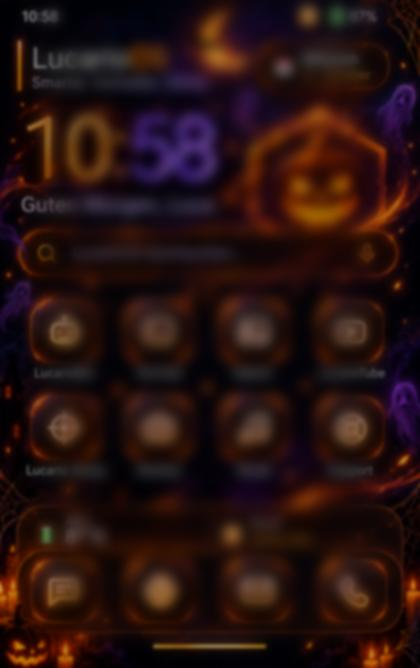
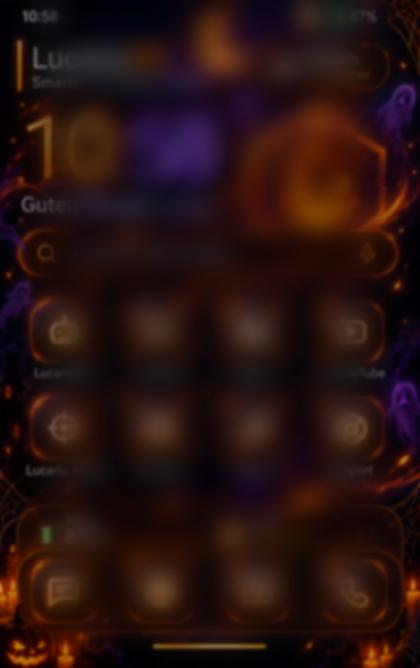
Skin-Effekte einstellbar, Skin-Look wie im Bild, Originalbild-Schärfe
Claude-Session: https://claude.ai/code/session_01QPs3d166SmVoQPqWLWZDzX

diff --git a/index.html b/index.html
@@ -546,11 +546,11 @@ select.f{appearance:auto}
 #phone.sk-hw.lo.cico .app .ic{background:radial-gradient(circle at 30% 20%,rgba(166,77,255,.4),rgba(18,6,30,.9) 70%)!important;border-color:rgba(255,138,31,.6)!important;animation:skhw 2.6s ease-in-out infinite alternate}
 #phone.sk-hw.lo.cico .app .ic svg{stroke:#ffae4d!important;filter:drop-shadow(0 0 5px #ff8a1f)!important}
 #phone.sk-hw.lo.cico .app:nth-child(2n) .ic svg{stroke:#c996ff!important;filter:drop-shadow(0 0 5px #a64dff)!important}
-@keyframes skhw{from{box-shadow:0 0 8px rgba(255,138,31,.5),inset 0 0 10px rgba(166,77,255,.3)}to{box-shadow:0 0 20px rgba(166,77,255,.8),inset 0 0 14px rgba(255,138,31,.4)}}
+@keyframes skhw{from{box-shadow:0 0 calc(8px*var(--skg,1)) rgba(255,138,31,.5),inset 0 0 calc(10px*var(--skg,1)) rgba(166,77,255,.3)}to{box-shadow:0 0 calc(20px*var(--skg,1)) rgba(166,77,255,.8),inset 0 0 calc(14px*var(--skg,1)) rgba(255,138,31,.4)}}
 #phone.sk-sv.lo.cico .app .ic{background:radial-gradient(circle at 30% 20%,rgba(255,200,61,.3),rgba(6,10,40,.92) 70%)!important;border-color:rgba(255,200,61,.65)!important;animation:sksv 3s ease-in-out infinite alternate}
 #phone.sk-sv.lo.cico .app .ic svg{stroke:#ffd36b!important;filter:drop-shadow(0 0 5px #ffb21f)!important}
 #phone.sk-sv.lo.cico .app:nth-child(3n) .ic svg{stroke:#8ec5ff!important;filter:drop-shadow(0 0 5px #4c8dff)!important}
-@keyframes sksv{from{box-shadow:0 0 8px rgba(255,200,61,.5),inset 0 0 10px rgba(76,141,255,.25)}to{box-shadow:0 0 20px rgba(255,200,61,.85),inset 0 0 14px rgba(255,255,255,.2)}}
+@keyframes sksv{from{box-shadow:0 0 calc(8px*var(--skg,1)) rgba(255,200,61,.5),inset 0 0 calc(10px*var(--skg,1)) rgba(76,141,255,.25)}to{box-shadow:0 0 calc(20px*var(--skg,1)) rgba(255,200,61,.85),inset 0 0 calc(14px*var(--skg,1)) rgba(255,255,255,.2)}}
 #phone.sk-hw .lodate,#phone.sk-hw #search,#phone.sk-hw .lowd{border-color:rgba(255,138,31,.55)!important}
 #phone.sk-sv .lodate,#phone.sk-sv #search,#phone.sk-sv .lowd{border-color:rgba(255,200,61,.55)!important}
 .skc2{display:flex;align-items:center;gap:12px;padding:14px;border-radius:18px;margin-bottom:10px;color:#fff;border:2px solid transparent;cursor:pointer}.skc2.on{border-color:#ffd93d;box-shadow:0 0 18px #ffd93d66}.skem{font-size:34px}.skc2 div{flex:1}.skc2 b{display:block;font-size:16px}.skc2 small{opacity:.85;font-size:12px}.skc2 i{font-style:normal;font-weight:800;font-size:12px;background:#0006;padding:6px 10px;border-radius:12px}
@@ -558,7 +558,7 @@ select.f{appearance:auto}
 #phone.sk-xm.lo.cico .app .ic{background:radial-gradient(circle at 30% 20%,rgba(255,59,59,.32),rgba(12,6,20,.92) 70%)!important;border-color:rgba(255,90,90,.65)!important;animation:skxm 2.8s ease-in-out infinite alternate}
 #phone.sk-xm.lo.cico .app .ic svg{stroke:#ffe9e9!important;filter:drop-shadow(0 0 5px #ff3b3b)!important}
 #phone.sk-xm.lo.cico .app:nth-child(3n) .ic svg{stroke:#9dffb8!important;filter:drop-shadow(0 0 5px #2ecc71)!important}
-@keyframes skxm{from{box-shadow:0 0 8px rgba(255,59,59,.5),inset 0 0 10px rgba(46,204,113,.2)}to{box-shadow:0 0 20px rgba(255,59,59,.85),inset 0 0 14px rgba(255,255,255,.18)}}
+@keyframes skxm{from{box-shadow:0 0 calc(8px*var(--skg,1)) rgba(255,59,59,.5),inset 0 0 calc(10px*var(--skg,1)) rgba(46,204,113,.2)}to{box-shadow:0 0 calc(20px*var(--skg,1)) rgba(255,59,59,.85),inset 0 0 calc(14px*var(--skg,1)) rgba(255,255,255,.18)}}
 #phone.sk-xm .lodate,#phone.sk-xm #search,#phone.sk-xm .lowd{border-color:rgba(255,90,90,.55)!important}
 .skgx{position:absolute;inset:0;pointer-events:none;overflow:hidden;z-index:5}
 .skgx span{position:absolute;top:-8%;opacity:.5;animation:skfall linear infinite}
@@ -573,6 +573,25 @@ select.f{appearance:auto}
 #phone.sk-sv.sk-game #body canvas{background:#080c3a!important;border:2px solid #ffc83d;box-shadow:0 0 18px rgba(255,200,61,.5)}
 #phone.sk-xm.sk-game #body canvas{background:#0a1838!important;border:2px solid #ff4d4d;box-shadow:0 0 18px rgba(255,77,77,.5)}
 #phone.sk-hw.sk-game #title{color:#ffae4d}#phone.sk-sv.sk-game #title{color:#ffd36b}#phone.sk-xm.sk-game #title{color:#ff8a8a}
+
+.skfx{margin-top:12px;padding:12px;border-radius:16px;background:#0006;color:#fff;font-size:13px}.skfx b{display:block;margin-bottom:8px;font-size:14px}
+.skfx label{display:block;margin:8px 0}.skfx em{float:right;font-style:normal;opacity:.8}.skfx input[type=range]{width:100%;accent-color:#ff8a1f}
+.skfx .skt{display:flex;align-items:center;gap:8px;margin:10px 0}.skfx .skt input{width:20px;height:20px}
+.skrs{margin-top:8px;padding:8px 14px;border-radius:12px;border:0;background:#ffffff22;color:#fff;font-weight:700}
+/* Skin-Look wie im Bild */
+#phone.sk-look.sk-hw #clock .t{color:#ffa31f;text-shadow:0 0 18px rgba(255,138,31,.7)}#phone.sk-look.sk-hw #clock .cy{color:#a56bff;text-shadow:0 0 18px rgba(140,80,255,.8)}
+#phone.sk-look.sk-sv #clock .t{color:#e6eeff;text-shadow:0 0 16px rgba(120,160,255,.6)}#phone.sk-look.sk-sv #clock .cy{text-shadow:0 0 18px rgba(255,200,61,.8)}
+#phone.sk-look.sk-xm #clock .t{color:#fff;text-shadow:0 0 14px rgba(255,255,255,.5)}#phone.sk-look.sk-xm #clock .cy{text-shadow:0 0 18px rgba(255,59,59,.9)}
+#phone.sk-look.sk-hw .lologo svg path{opacity:0}
+#phone.sk-look.sk-hw .lologo::after{content:'🎃';position:absolute;left:50%;top:50%;transform:translate(-50%,-52%);font-size:64px;filter:drop-shadow(0 0 14px #ff8a1f);animation:skbob 2.4s ease-in-out infinite alternate}
+#phone.sk-look.sk-sv .lologo::before{content:'👑';position:absolute;left:50%;top:-4px;transform:translateX(-50%);font-size:26px}
+#phone.sk-look.sk-xm .lologo::before{content:'';position:absolute;left:14%;right:14%;top:8%;height:12px;border-radius:8px;background:linear-gradient(#fff,#cfe3ff);box-shadow:0 0 10px #fff9}
+#phone.sk-look.sk-xm.lo.cico .app .ic,#phone.sk-look.sk-hw.lo.cico .app .ic,#phone.sk-look.sk-sv.lo.cico .app .ic{position:relative;overflow:visible}
+#phone.sk-look.sk-xm.lo.cico .app .ic::before{content:'';position:absolute;left:8%;right:8%;top:1px;height:7px;border-radius:8px;background:linear-gradient(#fff,#dbe9ff);box-shadow:0 0 6px #fff8;z-index:2}
+#phone.sk-look.sk-xm.lo.cico .app:nth-child(3n+1) .ic::after{content:'';position:absolute;right:-3px;top:-11px;width:22px;height:20px;background:radial-gradient(circle at 85% 88%,#fff 0 3.5px,transparent 4px),linear-gradient(#e0262b,#b31217);clip-path:polygon(0 100%,35% 8%,70% 0,100% 100%);z-index:3;transform:rotate(14deg)}
+#phone.sk-look.sk-hw.lo.cico .app:nth-child(4n+2) .ic::after{content:'🕸';position:absolute;right:-4px;top:-6px;font-size:15px;opacity:.85}
+#phone.sk-look.sk-sv.lo.cico .app:nth-child(4n+1) .ic::after{content:'✨';position:absolute;right:-4px;top:-8px;font-size:15px}
+#phone.sk-look.sk-xm .lodate,#phone.sk-look.sk-xm #search{box-shadow:0 -4px 0 -1px #fff9,0 0 14px rgba(255,59,59,.45)!important}
 /* ================= 6.2: Lucario Arena (grafisch) ================= */
 .ag{position:relative;width:100%;height:100%;min-height:520px;background:#0b0f1e;color:#eaf0ff;font-family:system-ui,sans-serif;overflow:hidden;user-select:none;-webkit-user-select:none;touch-action:manipulation}
 .ag *{box-sizing:border-box}
@@ -4805,7 +4824,8 @@ A.putz=el=>{
   try{ph.insertBefore(cv,$('#fxb')||$('#home'))}catch(e){ph.appendChild(cv)}
   const g=cv.getContext('2d');let W=0,H=0,bg=null,raf=0,last=0,skin='',T=0;
   const R=(a,b)=>a+Math.random()*(b-a),perf=()=>{const c=ph.classList;return c.contains('perf3')?3:c.contains('perf2')?2:c.contains('perf1')?1:0};
-  const lvl=()=>perf();
+  const DEF={dens:100,spd:100,glow:100,sharp:0,dim:100,games:1,gdens:100,anim:1,look:1,force:0},K=()=>Object.assign({},DEF,SET.skfx||{});let DN=1,drawn=false;
+  const lvl=()=>K().force?0:perf();
   /* ---------- Zustand je Skin ---------- */
   let flares=[],fog,bats,ghosts,embers,pumps,rockets,sparks,conf,wins,ripples,shineT;
   const SC=.8;
@@ -4843,9 +4863,9 @@ A.putz=el=>{
     g.drawImage(bg,0,0);
     fog.forEach(f=>{f.x+=f.v*dt*30;if(f.x>W+f.r)f.x=-f.r;if(f.x<-f.r)f.x=W+f.r;const gr=g.createRadialGradient(f.x,f.y,0,f.x,f.y,f.r);gr.addColorStop(0,'rgba(150,90,210,'+f.a+')');gr.addColorStop(1,'rgba(150,90,210,0)');g.fillStyle=gr;g.fillRect(f.x-f.r,f.y-f.r,f.r*2,f.r*2)});
     pumps.forEach(p=>pumpkin(p,t));
-    if(Math.random()<dt*.5&&bats.length<(lvl()?2:4))bats.push({x:Math.random()<.5?-30:W+30,y:R(H*.08,H*.5),vx:0,s:W*R(.07,.12),p:R(0,6),d:1,sp:R(70,130)});
+    if(Math.random()<dt*DN*.5&&bats.length<(lvl()?2:4))bats.push({x:Math.random()<.5?-30:W+30,y:R(H*.08,H*.5),vx:0,s:W*R(.07,.12),p:R(0,6),d:1,sp:R(70,130)});
     bats.forEach(b=>{if(!b.vx){b.vx=b.x<0?b.sp:-b.sp;b.d=b.vx>0?1:-1}b.x+=b.vx*dt;b.y+=Math.sin(t*3+b.p)*30*dt;bat(b,t)});bats=bats.filter(b=>b.x>-60&&b.x<W+60);
-    if(!lvl()){if(Math.random()<dt*.28&&ghosts.length<3)ghosts.push({x:R(W*.1,W*.9),y:R(H*.2,H*.6),s:W*R(.07,.11),p:R(0,6),l:0,max:R(5,8),vx:R(-12,12)});ghosts.forEach(o=>{o.l+=dt;o.x+=o.vx*dt;ghost(o,t)});ghosts=ghosts.filter(o=>o.l<o.max)}
+    if(!lvl()){if(Math.random()<dt*DN*.28&&ghosts.length<3)ghosts.push({x:R(W*.1,W*.9),y:R(H*.2,H*.6),s:W*R(.07,.11),p:R(0,6),l:0,max:R(5,8),vx:R(-12,12)});ghosts.forEach(o=>{o.l+=dt;o.x+=o.vx*dt;ghost(o,t)});ghosts=ghosts.filter(o=>o.l<o.max)}
     embers.forEach(e=>{e.y-=e.v*dt*40;e.x+=Math.sin(t*2+e.p)*.3;if(e.y<-5){e.y=H+5;e.x=R(0,W)}g.fillStyle='rgba(255,'+(120+Math.sin(t*5+e.p)*60|0)+',30,'+(.35+.35*Math.sin(t*4+e.p))+')';g.fillRect(e.x,e.y,e.s,e.s)})}
   /* ---------- SILVESTER ---------- */
   function svBg(x){
@@ -4862,7 +4882,7 @@ A.putz=el=>{
     g.drawImage(bg,0,0);
     wins.forEach(w=>{const a=.25+.6*Math.max(0,Math.sin(t*w.f+w.p));if(a>.4){g.fillStyle='rgba(255,214,120,'+a+')';g.fillRect(w.x,w.y,3,4)}});
     const tw=g.createLinearGradient(0,H*.8,0,H);tw.addColorStop(0,'rgba(255,200,90,.14)');tw.addColorStop(1,'rgba(255,200,90,0)');g.fillStyle=tw;for(let i=0;i<7;i++){g.fillRect(((i*97+t*14*(i%2?1:-1))%W+W)%W,H*.8+i*H*.025,W*.22,2)}
-    if(Math.random()<dt*(lvl()?.7:1.4)&&rockets.length<3)rockets.push({x:R(W*.12,W*.88),y:H*.8,ty:R(H*.12,H*.42),vy:-R(4,6)});
+    if(Math.random()<dt*DN*(lvl()?.7:1.4)&&rockets.length<3)rockets.push({x:R(W*.12,W*.88),y:H*.8,ty:R(H*.12,H*.42),vy:-R(4,6)});
     rockets.forEach(r=>{r.y+=r.vy;g.fillStyle='rgba(255,230,160,.9)';g.fillRect(r.x,r.y,2,6);g.fillStyle='rgba(255,200,100,.35)';g.fillRect(r.x,r.y+6,2,14);if(r.y<=r.ty){r.dead=1;boom(r.x,r.y)}});rockets=rockets.filter(r=>!r.dead);
     g.globalCompositeOperation='lighter';
     sparks.forEach(s=>{s.vy+=.06;s.vx*=.982;s.vy*=.982;const px=s.x,py=s.y;s.x+=s.vx;s.y+=s.vy;s.l-=s.d;g.strokeStyle=s.c;g.globalAlpha=Math.max(0,s.l);g.lineWidth=2.6;g.beginPath();g.moveTo(px-s.vx*1.5,py-s.vy*1.5);g.lineTo(s.x,s.y);g.stroke();g.fillStyle='#fff';g.fillRect(s.x-1,s.y-1,2,2)});g.globalAlpha=1;
@@ -4872,8 +4892,9 @@ A.putz=el=>{
     conf.forEach(c=>{c.y+=c.v*dt*55;c.x+=Math.sin(t*1.5+c.p)*.6;c.r+=.08;if(c.y>H+8){c.y=-8;c.x=R(0,W)}g.save();g.translate(c.x,c.y);g.rotate(c.r);g.globalAlpha=.55+.4*Math.abs(Math.sin(c.r*2));g.fillStyle=c.c;g.fillRect(-c.s/2,-c.s/4,c.s,c.s/2);g.restore()});g.globalAlpha=1;
     shineT+=dt;const ph2=(shineT%7)/7;if(ph2<.5){const sx=-W*.3+ph2*2*(W*1.6),sg=g.createLinearGradient(sx,0,sx+W*.25,H*.4);sg.addColorStop(0,'rgba(255,255,255,0)');sg.addColorStop(.5,'rgba(255,240,200,.1)');sg.addColorStop(1,'rgba(255,255,255,0)');g.fillStyle=sg;g.fillRect(0,0,W,H)}}
   /* ---------- Steuerung ---------- */
-  const IM={};function img(k){if(!IM[k]){const i=new Image();IM[k]={i,ok:false};i.onload=()=>{IM[k].ok=true;if(skin==k)try{build()}catch(e){}};i.src='skin-'+k+'.jpg'}return IM[k]}
-  function imgBg(k,fb){const m=img(k);return mkBg(x=>{if(m.ok){const w=m.i.width,h=m.i.height,sc=Math.max(W/w,H/h);x.drawImage(m.i,(W-w*sc)/2,(H-h*sc)/2,w*sc,h*sc)}else fb(x)})}
+  const IM={};function img(k,sfx){const n=k+(sfx||'');if(!IM[n]){const i=new Image();IM[n]={i,ok:false};i.onload=()=>{IM[n].ok=true;if(skin==k)try{build();drawn=false}catch(e){}};i.src='skin-'+n+(sfx?'':'')+'.jpg'}return IM[n]}
+  function cover(x,m){const w=m.i.width,h=m.i.height,sc=Math.max(W/w,H/h);x.drawImage(m.i,(W-w*sc)/2,(H-h*sc)/2,w*sc,h*sc)}
+  function imgBg(k,fb){const m=img(k);const q=K(),ms=img(k,'-s');return mkBg(x=>{if(m.ok){cover(x,m);if(q.sharp>0&&ms.ok){x.globalAlpha=q.sharp/100;cover(x,ms);x.globalAlpha=1}if(q.dim<100){x.fillStyle='rgba(0,0,0,'+(1-q.dim/100)+')';x.fillRect(0,0,W,H)}}else fb(x)})}
   /* ---------- WEIHNACHTEN ---------- */
   function xmBg(x){const sg=x.createLinearGradient(0,0,0,H);sg.addColorStop(0,'#070b24');sg.addColorStop(.6,'#13244f');sg.addColorStop(1,'#1d2f5c');x.fillStyle=sg;x.fillRect(0,0,W,H)}
   let snow,lights,shoot;
@@ -4882,14 +4903,15 @@ A.putz=el=>{
     g.fillStyle='rgba(255,255,255,.85)';snow.forEach(f=>{f.y+=f.v*dt*45;f.x+=Math.sin(t*.8+f.p)*.4;if(f.y>H+4){f.y=-4;f.x=R(0,W)}g.globalAlpha=.45+f.s/6;g.beginPath();g.arc(f.x,f.y,f.s*SC,0,7);g.fill()});g.globalAlpha=1;
     g.strokeStyle='rgba(20,60,30,.9)';g.lineWidth=2;g.beginPath();g.moveTo(0,4);lights.forEach(l=>g.lineTo(l.x,4+Math.sin(l.x/W*Math.PI*3)*7+8));g.lineTo(W,6);g.stroke();
     lights.forEach(l=>{const y=12+Math.sin(l.x/W*Math.PI*3)*7,a=.55+.45*Math.sin(t*3+l.p);g.fillStyle=l.c;g.globalAlpha=a;g.shadowColor=l.c;g.shadowBlur=14;g.beginPath();g.arc(l.x,y,4.2,0,7);g.fill();g.shadowBlur=0});g.globalAlpha=1;
-    if(!shoot&&Math.random()<dt*.15)shoot={x:R(W*.3,W),y:R(0,H*.25),l:1};if(shoot){shoot.x-=dt*420;shoot.y+=dt*170;shoot.l-=dt*1.1;g.strokeStyle='rgba(255,255,255,'+Math.max(0,shoot.l)+')';g.lineWidth=2;g.beginPath();g.moveTo(shoot.x,shoot.y);g.lineTo(shoot.x+50,shoot.y-20);g.stroke();if(shoot.l<=0)shoot=null}}
-  function build(){if(!skin)return;if(skin=='hw'){bg=imgBg('hw',hwBg);hwInit()}else if(skin=='sv'){bg=imgBg('sv',svBg);svInit()}else{bg=imgBg('xm',xmBg);xmInit()}}
+    if(!shoot&&Math.random()<dt*DN*.15)shoot={x:R(W*.3,W),y:R(0,H*.25),l:1};if(shoot){shoot.x-=dt*420;shoot.y+=dt*170;shoot.l-=dt*1.1;g.strokeStyle='rgba(255,255,255,'+Math.max(0,shoot.l)+')';g.lineWidth=2;g.beginPath();g.moveTo(shoot.x,shoot.y);g.lineTo(shoot.x+50,shoot.y-20);g.stroke();if(shoot.l<=0)shoot=null}}
+  function scale(a,f){if(!a||f===1)return a;if(f<1){a.length=Math.floor(a.length*f)}else{const n=a.length;for(let i=0;i<Math.round(n*(f-1));i++){const c=Object.assign({},a[i%n]);c.x=R(0,W);c.y=R(0,H);a.push(c)}}return a}
+  function build(){if(!skin)return;DN=K().dens/100;if(skin=='hw'){bg=imgBg('hw',hwBg);hwInit();embers=scale(embers,DN)}else if(skin=='sv'){bg=imgBg('sv',svBg);svInit();conf=scale(conf,DN)}else{bg=imgBg('xm',xmBg);xmInit();snow=scale(snow,DN)}drawn=false}
   function frame(t){raf=requestAnimationFrame(frame);if(document.hidden||ph.classList.contains('inapp')){last=t;return}
-    const dt=Math.min(.1,(t-last)/1000),L=lvl();if(L>=2){if(T++%90)return}else if(dt<.032)return;last=t;
+    const q=K(),dt0=Math.min(.1,(t-last)/1000),L=lvl();if(!q.anim&&drawn){last=t;return}if(L>=2){if(dt0<.05)return}else if(dt0<.032)return;last=t;const dt=dt0*q.spd/100;drawn=true;
     const tt=t/1000;try{skin=='hw'?hwFrame(dt||.033,tt):skin=='xm'?xmFrame(dt||.033,tt):svFrame(dt||.033,tt)}catch(e){}}
-  function sync(){const s=(SET.skin==='hw'||SET.skin==='sv'||SET.skin==='xm')&&SET.style=='lucario'&&!SET.reduce?SET.skin:'';
+  function sync(){try{const q=K();ph.style.setProperty('--skg',q.glow/100);ph.classList.toggle('sk-look',!!q.look)}catch(_){}const s=(SET.skin==='hw'||SET.skin==='sv'||SET.skin==='xm')&&SET.style=='lucario'&&!SET.reduce?SET.skin:'';
     ph.classList.toggle('sk-hw',s=='hw');ph.classList.toggle('sk-sv',s=='sv');ph.classList.toggle('sk-xm',s=='xm');window.SKFOOD=s?SK[s].food:'';
-    if(s!==skin){skin=s;if(!s){cv.style.display='none';cancelAnimationFrame(raf);raf=0;return}cv.style.display='block';size();last=performance.now();if(!raf)raf=requestAnimationFrame(frame)}else if(s&&!raf){cv.style.display='block';raf=requestAnimationFrame(frame)}}
+    if(s!==skin){skin=s;if(s)try{build()}catch(e){}if(!s){cv.style.display='none';cancelAnimationFrame(raf);raf=0;return}cv.style.display='block';size();last=performance.now();if(!raf)raf=requestAnimationFrame(frame)}else if(s&&!raf){cv.style.display='block';raf=requestAnimationFrame(frame)}}
   /* Akzentfarbe des Skins in das LucarioOS-Design einspeisen */
   const _lt=loTheme;loTheme=function(){const s=SK[SET.skin];if(s&&SET.style=='lucario'){const o=SET.accent;SET.accent=s.acc;try{return _lt.apply(this,arguments)}finally{SET.accent=o}}return _lt.apply(this,arguments)};
   const _as=applySet;applySet=function(){const r=_as.apply(this,arguments);try{sync()}catch(e){}return r};
@@ -4900,13 +4922,16 @@ A.putz=el=>{
   /* ---------- Spiele-Theme: Deko-Ebene in jeder App ---------- */
   const GM=['snake','g2048','memory','pong','flappy','simon','whack','tetris','breakout','fabrik','fussknabber','putz','arena','ttt','gamecenter','sudoku','minesweeper','slide','wordle','game'];
   function deco(id){const w=$('#win');if(!w)return;let d=$('#skgx');if(d)d.remove();const s=SET.skin,k=SK[s];if(!k||SET.style!='lucario'||SET.reduce)return;
-    d=document.createElement('div');d.id='skgx';d.className='skgx';const n=lvl()?6:12;let h='';
+    d=document.createElement('div');d.id='skgx';d.className='skgx';const q=K();if(!q.games)return;const n=Math.round((lvl()?6:12)*q.gdens/100);let h='';
     for(let i=0;i<n;i++)h+='<span style="left:'+((i*83+11)%96)+'%;animation-duration:'+(9+(i*7)%9)+'s;animation-delay:-'+((i*5)%14)+'s;font-size:'+(16+(i*5)%16)+'px">'+k.deco[i%k.deco.length]+'</span>';
     h+='<b class="c1">'+k.deco[0]+'</b><b class="c2">'+k.deco[1]+'</b><b class="c3">'+k.deco[2]+'</b><b class="c4">'+k.deco[3]+'</b>';d.innerHTML=h;w.appendChild(d)}
   const _oa2=openApp;openApp=function(id){const r=_oa2.apply(this,arguments);try{ph.classList.toggle('sk-game',GM.includes(id));deco(id)}catch(e){}return r};
   const _ca2=closeApp;closeApp=function(){try{const d=$('#skgx');if(d)d.remove();ph.classList.remove('sk-game')}catch(e){}return _ca2.apply(this,arguments)};
   /* App „Skins“ */
   apps.push({id:'skins',name:'Skins',bg:G('#ff8a1f','#7b2ff7'),svg:ic('<path d="M12 3l2.5 5 5.5.8-4 3.9.9 5.5L12 15.6 7.1 18.2 8 12.7 4 8.8 9.5 8z"/>')});
+  const SL=[['dens','Partikel-Menge','0','200','%'],['spd','Animations-Tempo','20','250','%'],['glow','Leuchten der Icons','0','200','%'],['sharp','Bildschärfe (Original)','0','100','%'],['dim','Helligkeit Hintergrund','30','100','%'],['gdens','Deko in Spielen','0','200','%']],TG=[['anim','Animationen laufen'],['look','Skin-Look (Uhr, Logo, Mützen)'],['games','Deko in Spielen'],['force','Volle Effekte (Leistungsmodus ignorieren)']];
+  function fxUI(){const q=K();return '<div class="skfx"><b>⚙ Effekte einstellen</b>'+SL.map(a=>'<label>'+a[1]+' <em id="v_'+a[0]+'">'+q[a[0]]+a[4]+'</em><input type="range" data-s="'+a[0]+'" min="'+a[2]+'" max="'+a[3]+'" value="'+q[a[0]]+'"></label>').join('')+TG.map(a=>'<label class="skt"><input type="checkbox" data-t="'+a[0]+'"'+(q[a[0]]?' checked':'')+'> '+a[1]+'</label>').join('')+'<button class="skrs" id="skrs">Zurücksetzen</button></div>'}
+  function fxSet(k,v,rb){SET.skfx=Object.assign({},SET.skfx||{});SET.skfx[k]=v;saveSet();sync();if(rb&&skin)build()}
   A.skins=el=>{
     const draw=()=>{el.style.alignItems='stretch';el.style.padding='12px';
       const card=(k,n,em,desc,css)=>'<div class="skc2'+(SET.skin==k?' on':'')+'" data-k="'+k+'" style="background:'+css+'"><span class="skem">'+em+'</span><div><b>'+n+'</b><small>'+desc+'</small></div><i>'+(SET.skin==k?'Aktiv ✓':'Aktivieren')+'</i></div>';
@@ -4915,8 +4940,11 @@ A.putz=el=>{
         +card('hw','Halloween','🎃',SK.hw.desc,'linear-gradient(135deg,#1a0833,#a64d00)')
         +card('xm','Weihnachten','🎄',SK.xm.desc,'linear-gradient(135deg,#0b1a3a,#a01818)')
         +card('sv','Silvester','🎆',SK.sv.desc,'linear-gradient(135deg,#0a0d3a,#8a5a00)')
-        +'<p style="opacity:.6;font-size:12px;margin-top:12px">Tipp: Bei Rucklern unter ⚡ Leistung im Schnellpanel auf „Sparsam“ stellen.</p>';
-      el.querySelectorAll('[data-k]').forEach(c=>c.onclick=()=>{SET.skin=c.dataset.k;if(SET.skin&&SET.style!='lucario'){SET.style='lucario'}saveSet();applySet();try{renderHome()}catch(_){}Sys.toast(SET.skin?SK[SET.skin].em+' '+SK[SET.skin].n+'-Skin aktiv':'Standard-Design');draw()})};
+        +fxUI()+'<p style="opacity:.6;font-size:12px;margin-top:12px">Tipp: Bei Rucklern unter ⚡ Leistung im Schnellpanel auf „Sparsam“ stellen.</p>';
+      el.querySelectorAll('[data-k]').forEach(c=>c.onclick=()=>{SET.skin=c.dataset.k;if(SET.skin&&SET.style!='lucario'){SET.style='lucario'}saveSet();applySet();try{renderHome()}catch(_){}Sys.toast(SET.skin?SK[SET.skin].em+' '+SK[SET.skin].n+'-Skin aktiv':'Standard-Design');draw()});
+      el.querySelectorAll('[data-s]').forEach(r=>{r.oninput=()=>{const e=$('#v_'+r.dataset.s);if(e)e.textContent=r.value+'%';fxSet(r.dataset.s,+r.value,0)};r.onchange=()=>fxSet(r.dataset.s,+r.value,1)});
+      el.querySelectorAll('[data-t]').forEach(c=>c.onchange=()=>{fxSet(c.dataset.t,c.checked?1:0,1)});
+      const rs=$('#skrs');if(rs)rs.onclick=()=>{SET.skfx={};saveSet();sync();if(skin)build();draw()}};
     draw();return()=>{}};
   try{renderHome();loDots()}catch(e){}
   try{applySet()}catch(e){}

diff --git a/sw.js b/sw.js
@@ -1,7 +1,7 @@
 // LucarioNet Service Worker – macht die App offline-fähig und installierbar.
 // Bei Updates die Version unten erhöhen (z. B. v3), damit der Cache erneuert wird.
-const V = 'lucarionet-v42';
-const FILES = ['./', 'index.html', 'manifest.webmanifest', 'icon.svg', 'icon-192.png', 'icon-512.png', 'skin-hw.jpg', 'skin-xm.jpg', 'skin-sv.jpg'];
+const V = 'lucarionet-v43';
+const FILES = ['./', 'index.html', 'manifest.webmanifest', 'icon.svg', 'icon-192.png', 'icon-512.png', 'skin-hw.jpg', 'skin-xm.jpg', 'skin-sv.jpg', 'skin-hw-s.jpg', 'skin-xm-s.jpg', 'skin-sv-s.jpg'];
 
 self.addEventListener('install', e => {
   e.waitUntil(caches.open(V).then(c => c.addAll(FILES)).then(() => self.skipWaiting()));

diff --git a/README.md b/README.md
@@ -28,6 +28,7 @@ Ein komplettes Handy-Betriebssystem als Web-App (eine `index.html`, installierba
 Öffne einmal `update.html` (z. B. `https://lucario109-hub.github.io/Claude-My-Phone-OS/update.html`). Die Seite entfernt nur den alten Zwischenspeicher und startet LucarioNet neu. Spielstände bleiben erhalten.
 
 ## Neu in 6.4
+- Skins: Effekte einstellbar (Partikel, Tempo, Leuchten, Bildschärfe, Helligkeit, Spiele-Deko), Skin-Look mit farbiger Uhr, Logo und Mützen, Animationen laufen auch im Sparmodus.
 - Skins aus deinen Originalbildern: Halloween, Weihnachten und Silvester nutzen deine Bilder als Hintergrund mit Animationen; in jedem Spiel gibt es passende Deko (Kürbisse, Geister, Schnee, Geschenke, Feuerwerk) und Snake-Futter im Skin-Look.
 - Saison-Skins (App „Skins“): Halloween 🎃 und Silvester 🎆 mit animierter Szene (Geister, Fledermäuse, Kürbisse, Feuerwerk, Konfetti, Skyline).
 - Leistungs-Wächter: senkt Effekte automatisch bei niedriger Bildrate; Schalter ⚡ Leistung (Auto/Voll/Sparsam/Minimal) im Schnellpanel.
